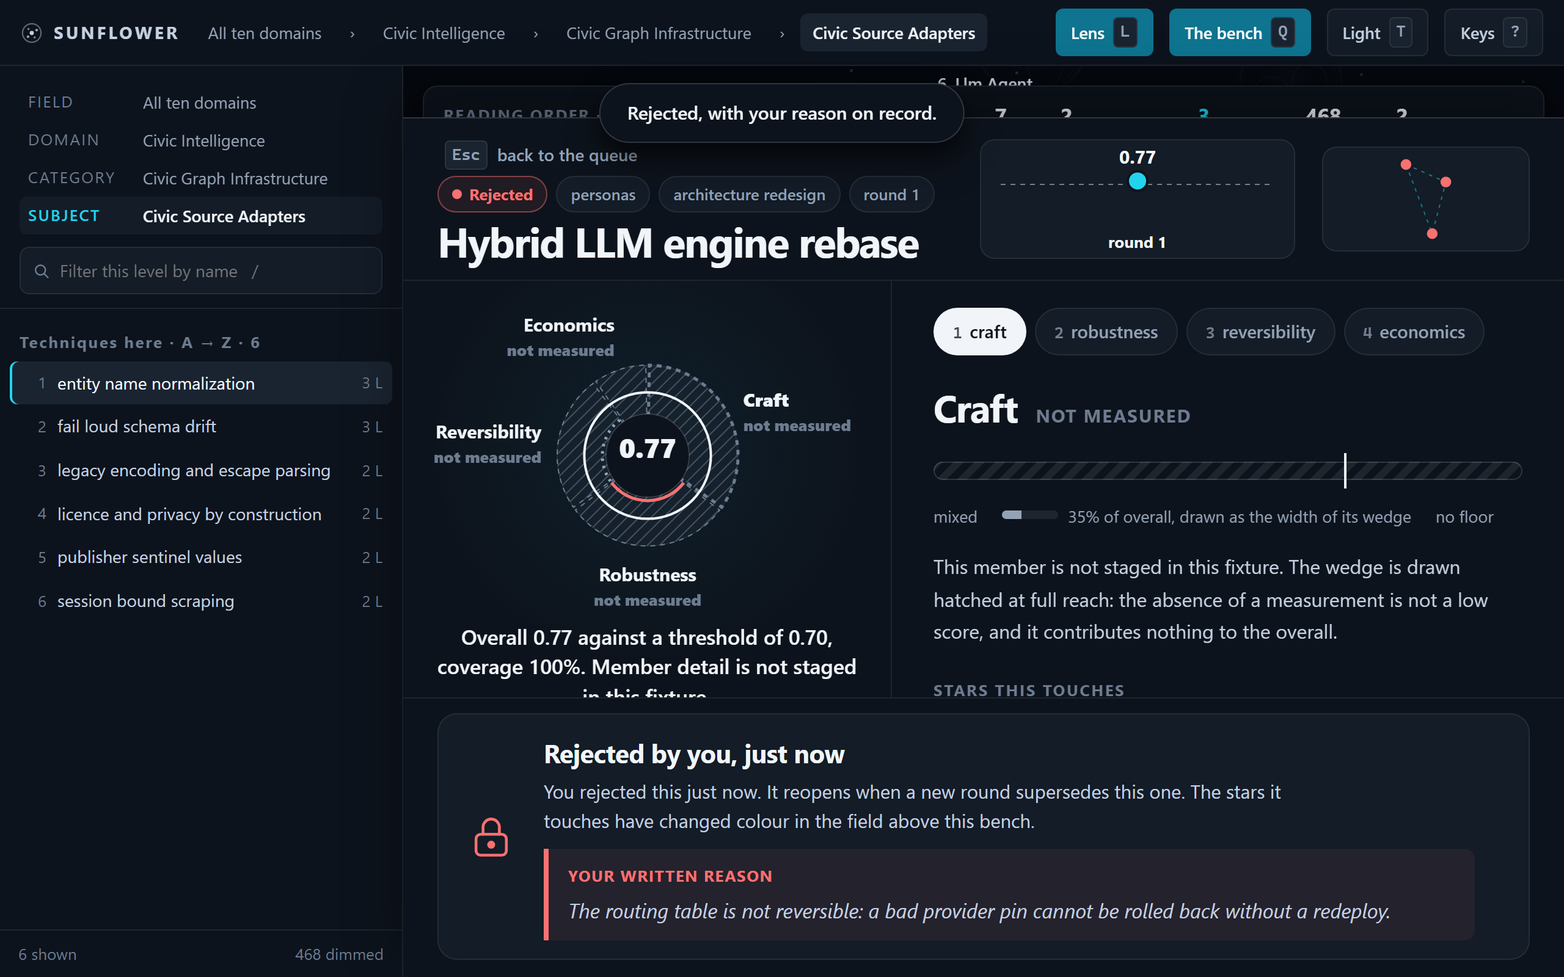
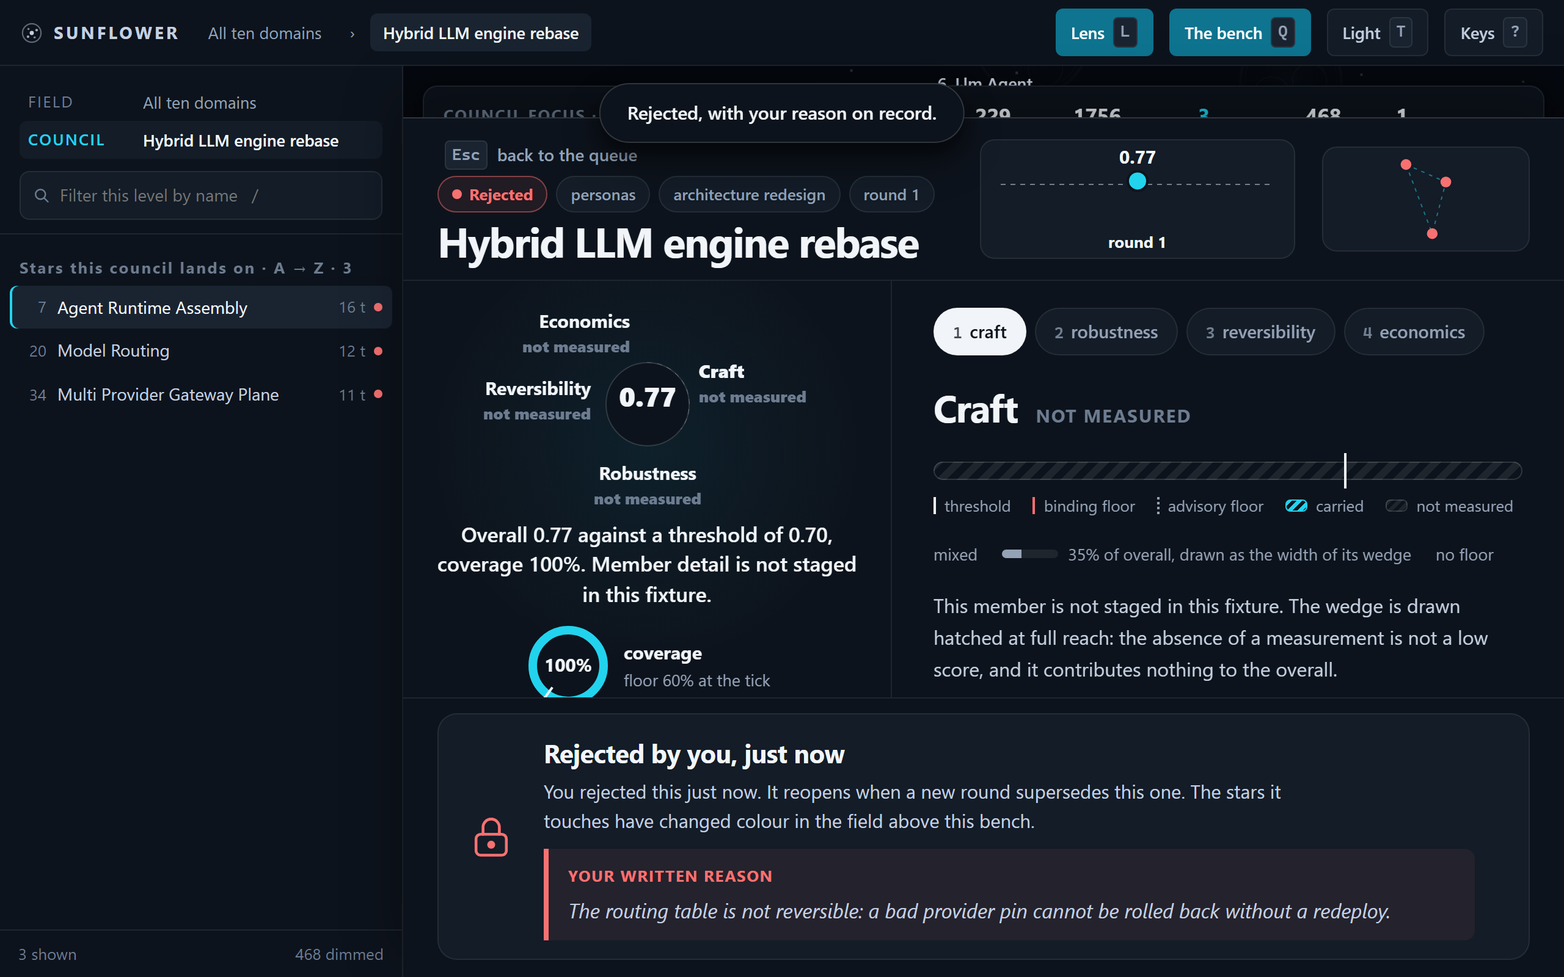
docs(design): the galaxy follows the council, and nothing is sliced by the gate
Director review of 45526fc41 found two defects in the reference's own
screenshots. Both are fixed and re-shot.

1. The galaxy and the sidebar were not about the council on screen: the round
   table showed one subject while the breadcrumb, the sidebar list and the
   camera were still wherever the reader had been standing. Opening a council —
   from the queue selection or from the round table — now puts the field in
   council focus as ONE state: the camera flies to the minimal enclosing view of
   the set of stars it lands on, at the lowest altitude that still holds them
   all; the set is lit and named and everything else is dimmed, never hidden,
   and counted in the legend and the sidebar footer; the sidebar becomes that
   set, name-sorted, each row carrying its council state; and the breadcrumb
   names the council. Esc from the table keeps the focus; Esc from the queue
   restores the exact camera, altitude and path from before the bench opened.

2. The rail legend under the coverage ring was sliced by the pinned gate. It now
   sits under the member rail it explains, in the scrolling reading column, and
   the rose re-measures itself once the bench has finished sliding open so the
   left column fills the height it is actually given.

Also: the lens's own star names now run through the field's label-occupancy pass
at top priority, and a cluster's caption stands down while the lens sits on it,
so the two no longer crowd each other at sky altitude.
[…]

diff --git a/docs/design/council-reference/index.html b/docs/design/council-reference/index.html
@@ -145,7 +145,7 @@ canvas{position:absolute;inset:0;width:100%;height:100%;display:block}
 .constel{border-radius:var(--radius-card);border:1px solid var(--hair);background:var(--panel-2);flex:none}
 .thead .rounds{flex:none;color:var(--ink-1);padding:2px 10px;border-radius:var(--radius-card);border:1px solid var(--hair);
   background:var(--panel-2);display:flex}
-.ttable{display:flex;flex-direction:column;align-items:center;gap:9px;padding:16px 22px 22px;overflow-y:auto;scrollbar-width:thin;
+.ttable{display:flex;flex-direction:column;align-items:center;gap:9px;padding:16px 22px 26px;overflow-y:auto;scrollbar-width:thin;
   border-right:1px solid var(--hair);background:radial-gradient(circle at 50% 40%,color-mix(in srgb,var(--accent) 7%,transparent),transparent 62%)}
 .ttable>*{flex:none}
 .ttable .why{margin:0;font-size:17px;font-weight:600;line-height:1.42;text-align:center;max-width:38ch;color:var(--ink-1)}
@@ -155,7 +155,7 @@ canvas{position:absolute;inset:0;width:100%;height:100%;display:block}
 .rose{flex:none;max-width:100%;color:var(--ink-1)}
 .rose .wedge{cursor:pointer;transition:opacity var(--duration-fast)}
 .rose .wedge:hover{opacity:.82}
-.treading{overflow-y:auto;padding:22px 34px 34px;scrollbar-width:thin;display:flex;flex-direction:column;gap:19px}
+.treading{overflow-y:auto;padding:22px 34px 44px;scrollbar-width:thin;display:flex;flex-direction:column;gap:19px}
 .treading>*{flex:none}
 .seats{display:flex;gap:7px;flex-wrap:wrap}
 .seats button{padding:7px 15px;border-radius:var(--radius-pill);border:1px solid var(--hair);font-size:14.5px;font-weight:640;
@@ -211,7 +211,7 @@ details.receipt dd{margin:0;display:flex;flex-wrap:wrap;gap:6px}
 .rail .flr.adv{border-left-style:dotted;border-left-color:var(--ink-3)}
 .rail .floorzone{position:absolute;left:0;top:0;bottom:0;border-radius:8px 0 0 8px;background:color-mix(in srgb,var(--status-error) 18%,transparent)}
 .rail .floorzone.adv{background:color-mix(in srgb,var(--ink-4) 16%,transparent)}
-.raillegend{display:flex;flex-wrap:wrap;gap:6px 18px;font-size:13px;color:var(--ink-3);justify-content:center}
+.raillegend{display:flex;flex-wrap:wrap;gap:6px 18px;font-size:13px;color:var(--ink-3);margin-top:-8px}
 .raillegend span{display:inline-flex;align-items:center;gap:7px}
 .raillegend .k{display:inline-block;width:0;height:14px;border-left:2px solid var(--ink-1)}
 .raillegend .k.flr{border-left-color:var(--status-error)}
@@ -554,15 +554,21 @@ function drawDom(d,A,k,dx,dy,dr,thr){
   [['approved',P.ok],['pending',P.pend],['rejected',P.err]].forEach(([kk,col])=>{const n=d.cnt[kk];if(!n)return;
     const a1=a0+TAU*n/d._subs;ctx.beginPath();ctx.strokeStyle=col;ctx.arc(dx,dy,dr+lw*1.5,a0,a1);ctx.stroke();a0=a1;});
   if(A==='sky'&&!dim){
+    /* the lens stands in the same label queue as the field; where it sits on a caption, the caption stands down */
+    const lensNear=ST.lens&&ST.lx>-1e4&&Math.hypot(ST.lx-dx,ST.ly-(dy+dr+31))<LENS_R+90;
     for(const c of d.cats)for(const s of c.subs){const[x,y,mg]=lens(RAW_X(s.x),RAW_Y(s.y));
-      const dec=ST.decisions[s.slug],kind=dec?dec.state:s.mark;
-      ctx.fillStyle=kind==='none'?(P.light?'rgba(15,23,42,.5)':'rgba(226,232,240,.55)'):
-        (kind==='approved'?P.ok:kind==='rejected'?P.err:P.pend);
-      const rr=(kind==='none'?1.4:2.6)*Math.min(3.2,mg);
+      const dec=ST.decisions[s.slug],kind=dec?dec.state:s.mark,threaded=thr&&thr.has(s.slug);
+      ctx.globalAlpha=thr?(threaded?1:.14):1;
+      ctx.fillStyle=threaded?P.accent:(kind==='none'?(P.light?'rgba(15,23,42,.5)':'rgba(226,232,240,.55)'):
+        (kind==='approved'?P.ok:kind==='rejected'?P.err:P.pend));
+      const rr=(threaded?4.4:(kind==='none'?1.4:2.6))*Math.min(3.2,mg);
       ctx.beginPath();ctx.arc(x,y,rr,0,TAU);ctx.fill();
-      if(mg>2.6)label(x,y-rr-7,s.title,15,P.ink1,680,'center',0);}
-    label(dx,dy+dr+22,`${d.rank}. ${d.title}`,Math.max(14,Math.min(22,dr*.14)),ST.hover===d?P.accent:P.ink1,660,'center',1);
-    label(dx,dy+dr+40,`${d._subs} subjects · ${d.cats.length} categories`,13,P.ink4,600,'center',3);
+      if(threaded){ctx.strokeStyle=P.accent;ctx.lineWidth=1.4;ctx.beginPath();ctx.arc(x,y,rr+4.5,0,TAU);ctx.stroke();
+        pick(x,y,rr+8,s,'subject');label(x,y-rr-10,s.title,14.5,P.accent,670,'center',1);}
+      else if(mg>2.6)label(x,y-rr-7,s.title,15,P.ink1,680,'center',0);}
+    ctx.globalAlpha=thr?.55:1;
+    label(dx,dy+dr+22,`${d.rank}. ${d.title}`,Math.max(14,Math.min(22,dr*.14)),ST.hover===d?P.accent:P.ink1,660,'center',lensNear?6:2);
+    if(!lensNear)label(dx,dy+dr+40,`${d._subs} subjects · ${d.cats.length} categories`,13,P.ink4,600,'center',3);
     ctx.globalAlpha=1;return;}
   for(const c of d.cats){
     const[ccx,ccy,m]=lens(RAW_X(c.x),RAW_Y(c.y)),cr=c.r*k*m;
@@ -645,6 +651,12 @@ function hud(A,thr){
     <div class="cnt"><b>${ALL.length-thr.size}</b><span>dimmed</span></div>`;
   if(DROP)h+=`<div class="cnt"><b>${DROP}</b><span>labels hidden</span></div>`;
   $('#counts').innerHTML=h;
+  if(thr){const n=thr.size;
+    $('#legend').innerHTML=`<div class="t-label">Council focus · ${esc(ST.thread.title)}</div>
+      <div class="lg">The <b>${n}</b> star${n===1?'':'s'} this council lands on are lit; the other
+      <b>${ALL.length-n}</b> are dimmed, never hidden. The sidebar lists the same ${n}, A to Z, with each one's council state.</div>
+      <div class="lg" style="margin-top:8px;color:var(--ink-4);font-size:13.2px"><kbd>Esc</kbd> from the bench restores the view you had before you opened it.</div>`;
+    return;}
   const L={sky:['The cluster field','Ten <b>globular clusters</b>, one per domain, packed so none collide. Numbered 1–10 in name order, the same numbers the docked list prints. The rim arc is council state.'],
    domain:['Inside a cluster','Categories are sub-discs, <b>rank 1 nearest the core</b>, A→Z outward. Disc area is how many subjects it holds.'],
    category:['Inside a category','The disc is cut into <b>subcategory wedges</b>, A→Z clockwise from twelve, sized by count. Inside a wedge, subjects spiral outward in name order.'],
@@ -656,7 +668,10 @@ function hud(A,thr){
 
 /* ── rail ── */
 function list(){let a,t;
-  if(!ST.dom){a=DOMS;t='Domain';}else if(!ST.cat){a=ST.dom.cats;t='Category';}
+  if(ST.thread){ /* a council is focused: the list IS the set of stars it lands on */
+    a=ST.thread.registry_subjects.map(s=>SUB.get(s)).filter(Boolean).slice()
+      .sort((p,q)=>p.title.localeCompare(q.title));t='Star';}
+  else if(!ST.dom){a=DOMS;t='Domain';}else if(!ST.cat){a=ST.dom.cats;t='Category';}
   else if(!ST.sub){a=ST.cat.subs;t='Subject';}else{a=ST.sub.techs;t='Technique';}
   if(ST.filter){const f=ST.filter.toLowerCase();a=a.filter(n=>((n.title||n.slug)+'').toLowerCase().includes(f));}
   return{a,t};}
@@ -675,14 +690,17 @@ function climb(){
   flyTo(s.x,s.y,s.k,420);rail();}
 function rail(){
   const{a,t}=list(),pr=$('#railPath');pr.innerHTML='';
-  const path=[{t:'Field',n:'All ten domains',f:()=>{ST.dom=ST.cat=ST.sub=null;stack.length=0;flyTo(0,0,SKY_K());rail();}}];
-  if(ST.dom)path.push({t:'Domain',n:ST.dom.title,f:()=>{ST.cat=ST.sub=null;flyTo(ST.dom.x,ST.dom.y,kDom(ST.dom));rail();}});
-  if(ST.cat)path.push({t:'Category',n:ST.cat.title,f:()=>{ST.sub=null;flyTo(ST.cat.x,ST.cat.y,kCat(ST.cat));rail();}});
-  if(ST.sub)path.push({t:'Subject',n:ST.sub.title,f:()=>{flyTo(ST.sub.x,ST.sub.y,kSub());rail();}});
+  const path=[{t:'Field',n:'All ten domains',f:()=>{ST.dom=ST.cat=ST.sub=null;ST.thread=null;stack.length=0;
+    bench(false);flyTo(0,0,SKY_K());rail();}}];
+  if(ST.thread)path.push({t:'Council',n:ST.thread.title,f:()=>{focusCouncil(ST.thread,true);}});
+  if(!ST.thread&&ST.dom)path.push({t:'Domain',n:ST.dom.title,f:()=>{ST.cat=ST.sub=null;flyTo(ST.dom.x,ST.dom.y,kDom(ST.dom));rail();}});
+  if(!ST.thread&&ST.cat)path.push({t:'Category',n:ST.cat.title,f:()=>{ST.sub=null;flyTo(ST.cat.x,ST.cat.y,kCat(ST.cat));rail();}});
+  if(!ST.thread&&ST.sub)path.push({t:'Subject',n:ST.sub.title,f:()=>{flyTo(ST.sub.x,ST.sub.y,kSub());rail();}});
   path.forEach((p,i)=>{const b=el('button','pathrow'+(i===path.length-1?' cur':''));
     b.innerHTML=`<span class="tg">${p.t}</span><span class="nm">${esc(p.n)}</span>`;b.onclick=p.f;pr.appendChild(b);});
   const L=$('#railList');L.innerHTML='';
-  L.appendChild(el('div','rgroup',`${t}s here · A → Z · ${a.length}`));
+  L.appendChild(el('div','rgroup',ST.thread?`Stars this council lands on · A → Z · ${a.length}`
+    :`${t}s here · A → Z · ${a.length}`));
   let lastW=null;
   a.forEach((n,i)=>{
     if(!ST.sub&&ST.cat&&n.wedge&&n.wedge.key!==lastW&&ST.cat.wedges.length>1){
@@ -698,7 +716,9 @@ function rail(){
     b.innerHTML=`<span class="rk">${n.rank||''}</span><span class="nm">${esc(n.title||n.slug.replace(/-/g,' '))}</span>
       <span style="display:flex;gap:7px;align-items:center"><span class="ct">${ct}</span>${pip}</span>`;
     const leaf=!n.cats&&!n.subs&&!n.techniques;
-    b.onclick=()=>{ST.selIdx=i;if(leaf){ST.hover=n;rail();invalidate();}else descend(n);};
+    b.onclick=()=>{ST.selIdx=i;
+      if(ST.thread){ST.hover=n;flyTo(n.x,n.y,cam.k,520);rail();invalidate();return;}  /* stay in the council's view */
+      if(leaf){ST.hover=n;rail();invalidate();}else descend(n);};
     b.onmouseenter=()=>{ST.hover=n;invalidate();};
     b.onmouseleave=()=>{if(ST.hover===n){ST.hover=null;invalidate();}};
     L.appendChild(b);});
@@ -1013,7 +1033,22 @@ function selectRow(i,scroll){
   rows.forEach(b=>b.setAttribute('aria-selected',+b.dataset.row===ST.qSel));
   const cur=rows.find(b=>+b.dataset.row===ST.qSel);
   if(cur&&scroll)cur.scrollIntoView({block:'nearest'});
-  const r=flat[ST.qSel];if(r){ST.thread=r;aim(r,true);renderPreview(r);}}
+  const r=flat[ST.qSel];if(r){focusCouncil(r,true);renderPreview(r);}}
+/* Opening a council puts the GALAXY in council focus: the camera flies to the minimal view
+   that holds the whole set of stars it lands on, everything outside the set is dimmed (never
+   hidden) and counted, and the sidebar and the breadcrumb name the council, not wherever the
+   user happened to be standing. The altitude is the lowest node that still holds them all. */
+function focusCouncil(r,fly){
+  const st=r.registry_subjects.map(s=>SUB.get(s)).filter(Boolean);
+  ST.thread=r;ST.sub=null;ST.dom=null;ST.cat=null;
+  if(st.length){
+    const cats=new Set(st.map(s=>s.cat)),doms=new Set(st.map(s=>s.dom));
+    if(cats.size===1){ST.cat=[...cats][0];ST.dom=ST.cat.dom;}
+    else if(doms.size===1)ST.dom=[...doms][0];
+  }
+  ST.selIdx=0;ST.filter='';const f=$('#railFilter');if(f)f.value='';
+  aim(r,fly!==false);rail();
+}
 function aim(r,fly){
   const st=r.registry_subjects.map(s=>SUB.get(s)).filter(Boolean);if(!st.length){invalidate();return;}
   let x0=1e9,x1=-1e9,y0=1e9,y1=-1e9;
@@ -1023,7 +1058,9 @@ function aim(r,fly){
 function openDetail(r){
   if(!r)return;
   if(ST.layer!==2){ST.layer=2;$('#bench').className='l2';setVR();}
-  ST.row=r;ST.round=r.round_no;ST.seat=null;aim(r,true);renderDetail();$('#benchBody').focus();}
+  ST.row=r;ST.round=r.round_no;ST.seat=null;focusCouncil(r,true);renderDetail();$('#benchBody').focus();
+  /* the bench is still sliding open: re-fit once the column has its real height */
+  clearTimeout(ST._fitT);ST._fitT=setTimeout(()=>{if(ST.layer===2){ST._keepScroll=true;renderDetail();}},430);}
 function toQueue(){ST.layer=1;$('#bench').className='l1';setVR();renderQueue();selectRow(ST.qSel,true);
   $('#benchBody').focus();invalidate();}
 function renderDetail(){
@@ -1040,15 +1077,14 @@ function renderDetail(){
     <div class="rounds">${roundsChart(r,runs,curR,236,92)}</div>${constellation(r,170,86)}</header>`;
   /* the rose is sized so that it, the why-line and the coverage ring all clear the bench's fold */
   const benchH=Math.min(innerHeight*0.88,880),roseSize=Math.max(220,Math.min(320,Math.round(benchH-450)));
-  h+=`<div class="ttable">${rose(r,run,roseSize,ST.seat,false)}
+  h+=`<div class="ttable" id="ttable">${rose(r,run,roseSize,ST.seat,false)}
     <p class="why">${esc(whyLine(r,run))}</p>
     <div class="under"><div class="cv">${covRing(cov,rb.coverage_floor,72)}
-      <span><b>coverage</b>floor ${pct(rb.coverage_floor)} at the tick</span></div></div>
-      ${railLegend()}</div>`;
+      <span><b>coverage</b>floor ${pct(rb.coverage_floor)} at the tick</span></div></div></div>`;
   h+=`<div class="treading" id="reading"><div class="seats">${ms.map((x,i)=>
     `<button data-seat="${i}" aria-pressed="${i===ST.seat}" class="${wk&&wk.member.name===x.name?'weakest':''}">
       <span class="n">${i+1}</span>${esc(x.name)}</button>`).join('')}</div>`;
-  h+=`<h2 class="mhh">${esc(m.name)}<em class="${m.score==null?'nm':''}">${m.score==null?'NOT MEASURED':num(m.score)}</em></h2>${memberRail(m)}
+  h+=`<h2 class="mhh">${esc(m.name)}<em class="${m.score==null?'nm':''}">${m.score==null?'NOT MEASURED':num(m.score)}</em></h2>${memberRail(m)}${railLegend()}
     <div class="msub"><span>${esc(m.kind)}</span>
       <span class="wt"><i style="--w:${m.weight*100}%"></i>${pct(m.weight)} of overall, drawn as the width of its wedge</span>
       ${confBars(m.conf)}${m.floor!=null?`<span>floor ${num(m.floor)}${m.advisory?', advisory':', binding'}</span>`:'<span>no floor</span>'}
@@ -1076,6 +1112,7 @@ function renderDetail(){
   const keep=$('#reading'),top=keep?keep.scrollTop:0;
   $('#benchBody').innerHTML=h;
   const nr=$('#reading');if(nr&&ST._keepScroll)nr.scrollTop=top;ST._keepScroll=false;
+  fitTable(r,run,roseSize,roseSize);
   bindGate($('#benchBody'),r);wireDetail(r,runs);
 }
 function wireDetail(r,runs){
@@ -1085,6 +1122,20 @@ function wireDetail(r,runs){
   $('#benchBody').querySelectorAll('[data-star]').forEach(b=>b.onclick=()=>{const s=SUB.get(b.dataset.star);if(!s)return;
     bench(false);ST.dom=s.dom;ST.cat=s.cat;ST.sub=s;stack.length=0;
     stack.push({x:0,y:0,k:SKY_K(),dom:null,cat:null,sub:null,sel:0});flyTo(s.x,s.y,kSub(),900);rail();});
+}
+/* the rose is the only elastic thing in the left column: size it so the column's last line
+   clears the gate pinned under it, rather than being sliced by it. Two-way, because the first
+   render happens while the bench is still sliding open and the column is briefly shorter. */
+function fitTable(r,run,size,max){
+  const tt=$('#ttable');if(!tt)return;
+  for(let guard=0;guard<8;guard++){
+    const over=tt.scrollHeight-tt.clientHeight;
+    if(over>0&&size>170)size=Math.max(170,size-Math.ceil(over)-4);
+    else if(over<=-28&&size<max)size=Math.min(max,size+Math.min(48,-over-12));
+    else break;
+    const el2=tt.querySelector('.rose');if(!el2)return;
+    el2.outerHTML=rose(r,run,size,ST.seat,false);
+  }
 }
 function commit(row,state,reason){
   const at='just now';
@@ -1150,7 +1201,8 @@ $('#railList').addEventListener('keydown',e=>{const{a}=list();
   if(e.key==='ArrowDown'){e.preventDefault();ST.selIdx=Math.min(a.length-1,ST.selIdx+1);move();}
   else if(e.key==='ArrowUp'){e.preventDefault();ST.selIdx=Math.max(0,ST.selIdx-1);move();}
   else if(e.key==='Enter'){e.preventDefault();const n=a[ST.selIdx];
-    if(n&&(n.cats||n.subs||n.techniques))descend(n);else if(n){ST.hover=n;invalidate();}}
+    if(n&&ST.thread){ST.hover=n;flyTo(n.x,n.y,cam.k,520);invalidate();}
+    else if(n&&(n.cats||n.subs||n.techniques))descend(n);else if(n){ST.hover=n;invalidate();}}
   else if(e.key==='Backspace'){e.preventDefault();climb();}});
 function move(){rail();const rs=[...$('#railList').querySelectorAll('.srow')];
   if(rs[ST.selIdx])rs[ST.selIdx].scrollIntoView({block:'nearest'});

diff --git a/docs/design/council-reference/README.md b/docs/design/council-reference/README.md
@@ -35,16 +35,34 @@ winner's visual language.** Specifically taken from the donor:
 | queue structure and ordering | three named groups — **Yours to decide** / **Not waiting on you** / **Decided** — each with a one-line note, each sorted by title; the count that matters is the number of *decidable* rows, in the headline |
 | queue row | a 54 px **mini rose** + title + state chip + `project · round n` |
 | queue item detail (the preview) | chips (state, project, tier/kind, star count) → title → the rose → the council's one-sentence reading → **Sit at the round table** |
-| the round table | header (chips, 34 px title, round history, constellation of the stars it touches) · left: the rose, the why-line, the coverage ring, the rail legend · right: the five member seats and the member's reading · footer: the gate, always in view |
+| the round table | header (chips, 34 px title, round history, constellation of the stars it touches) · left: the rose, the why-line, the coverage ring · right: the five member seats, the member's reading and the rail legend · footer: the gate, always in view |
 | the rose | wedge **width** = the member's weight, **reach** = its score, one ring = the threshold, floors drawn as arcs (dotted when advisory), `carried` striped, **not measured hatched at full reach** |
 | member reading | seat tabs `1…5` with the weakest marked ▼ · big score or `NOT MEASURED` · the rail (fill, knob, threshold rule, floor mark, floor zone) · kind, weight bar, confidence bars, floor, delta · findings with severity and recurrence dots · rival dots · evidence drawn as graphics (minutes-saved bars, gate pips, cost) with honest placeholder frames for the video/screenshot that are not on disk · technique proof glyphs · must-address · stars this touches · the receipt |
 | the walk to the gate | queue → preview → table → the gate pinned in the footer; approve is **armed then confirmed**, reject opens a box that stays disabled until a reason is written |
+| council focus on the galaxy | opening a council aims the field at the set of stars it lands on — see below |
 | the sentences | the gate's one-line reason per state, and the council's "why" line |
 | typography hierarchy | 13 / 14 / 15 / 16 / 17 / 21 / 31 / 34 / 42 — one large number per screen, prose at 16 px |
 
 The donor's own chrome (its fullscreen L2, its glass lens layout, its sidebar) was **not**
 taken: the galaxy layer stays the winner's, and the round table lives inside the winner's
 bench so the field is still alive above it.
+
+## Council focus — the galaxy is always about the council on screen
+
+Selecting a council in the queue, or opening its round table, puts the whole galaxy layer in
+**council focus**, and it is one state, not three views that drift apart:
+
+- the camera flies to the **minimal enclosing view** of that council's `registry_subjects`, and
+  the altitude is the lowest node that still holds them all — one category if they share one,
+  one cluster if they share one, the whole field if they span several;
+- the stars in the set are **lit and named**; everything else is **dimmed, never hidden**, and
+  the count of what was dimmed is printed twice (the legend and the sidebar footer);
+- the **sidebar** becomes the same set — *"Stars this council lands on · A → Z · n"* — each row
+  carrying that star's council state, its technique count, and its rank;
+- the **breadcrumb names the council**, not wherever the reader happened to be standing;
+- `Esc` from the round table returns to the queue **and keeps the focus**; `Esc` from the queue
+  drops the bench and restores the **exact camera, altitude and path** the reader had before
+  they opened it (verified by hashing the canvas before and after: identical).
 
 ## What changed, beyond the fusion
 
@@ -60,11 +78,17 @@ bench so the field is still alive above it.
    five states (sky, deep altitude, queue, round table, after a decision): **minimum rendered
    font size 13 px**, prose 16 px, member scores 42 px. The winner's 11.5 px `kbd`, 12.5 px list
    metadata and 12.4–12.8 px SVG chart labels are gone.
-3. Smaller corrections found by looking at the screenshots: the round history moved into the
+3. **The lens takes part in the field's own label-occupancy pass.** Its star names are queued at
+   the top priority, so they displace the field's labels instead of overprinting them, and a
+   cluster's caption stands down while the lens is sitting on it.
+4. Smaller corrections found by looking at the screenshots: the round history moved into the
    table's header so it is visible without scrolling; the rose is sized from the bench height so
    the rose, the why-line and the coverage ring always clear the fold; the toast moved off the
-   queue it reports on; the sidebar's level tag no longer collides with the level name; and a
-   decision now repaints its stars **at sky altitude too**, not only at depth.
+   queue it reports on; the sidebar's level tag no longer collides with the level name; a
+   decision now repaints its stars **at sky altitude too**, not only at depth; the rail legend
+   sits under the member rail it explains, where it always clears the pinned gate; and the rose
+   re-measures itself once the bench has finished sliding open, so it fills the column it is
+   given at any window height.
 
 ## How to open it
 
@@ -104,6 +128,8 @@ reason of at least 12 characters.
 - Approve / reject mutate in-page state only, and the change is visible in the queue, in the
   sidebar pips and on the galaxy on the way back up.
 - No frame loop at idle (measured: 0 `requestAnimationFrame` calls in 2 s with nothing moving).
+- The galaxy, the sidebar and the breadcrumb always describe the council on screen, and `Esc`
+  out of the bench restores the reader's own view byte for byte.
 
 ## Port notes for the React 19 + Tailwind 4 implementation
 
@@ -117,6 +143,10 @@ reason of at least 12 characters.
 - **The rose, the rail, the coverage ring, the rounds chart, the constellation and the proof
   glyphs are plain SVG** — they port directly as components, and they are the pieces worth
   extracting first (`<Rose>`, `<MemberRail>`, `<CoverageRing>`, `<RoundHistory>`).
+- **Council focus is one state, not three.** `focusCouncil(row)` sets the thread, the altitude
+  and the camera together, and the canvas, the sidebar and the breadcrumb all read from it. In
+  React it is one store slice (`focusedCouncil`) that the canvas engine, the sidebar list and the
+  crumb subscribe to — never three components computing their own idea of "where am I".
 - **The gate is a rule, not a widget.** `decidable = state === 'ready' && (tier === 'major' ||
   kind === 'architecture')` belongs in one shared predicate used by the queue grouping, the
   headline count and the gate — three places that must never disagree.
@@ -144,4 +174,5 @@ shots/                      verification screenshots, captured at 1280x800
 `shots/`: `01-sky-dark`, `02-sky-light`, `03-lens` (+ `03b-lens-crop`, the 100 px circle up
 close), `04-deep-altitude`, `05-queue`, `06-detail-ready` (the open gate),
 `07-detail-closed-gate` (a machine pass), `08-after-reject` (+ `08a` the gate that recorded it),
-`09-galaxy-after-decision` (the repainted star), `10-keyboard-end`.
+`09-galaxy-after-decision` (the repainted star), `10-keyboard-end`,
+`11-council-focus` (the galaxy, sidebar and breadcrumb all about one council).
